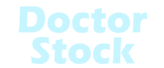
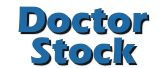
Slider error... xd

diff --git a/index.html b/index.html
@@ -18,6 +18,14 @@
               <a class="hiperlink" href="https://www.mendoza.edu.ar/mendoza-futura/" target="_blank"><img src="./img/Mendoza-Futura-V.png" alt="Mendoza Futura"></a>
             </nav>
         </header>
+        <article>
+          <div class="slider-frame">
+            <ul>
+              <li><a href="logo_name"><img src="./img/slide-DoctorStock.png" alt="Doctor Stock"></a></li>
+              <li><a href="#"><img src="./img/slide-SensARinclusive.png" alt="SensARinclusive"></a></li>
+            </ul>
+          </div>
+        </article>
         <article class="index_main">
           <section class="summary_info_code_whisperers">
             <h3>¿Quiénes somos?</h3>

diff --git a/styles/style.css b/styles/style.css
@@ -53,6 +53,33 @@ body{
 }
 
 /* Index */
+.slider-frame{
+    width: 1009px;
+    height: auto;
+    margin: 50px auto 0;
+    overflow: hidden;
+}
+.slider-frame ul{
+    display: flex;
+    padding: 0;
+    width: 200%;
+    animation: slide 8s infinite alternate ease-in-out;
+}
+.slider-frame li {
+	width: 100%;
+	list-style: none;
+}
+
+.slider-frame img {
+	width: 100%;
+}
+@keyframes slide {
+    0% {margin-left: 0;}
+    45% {margin-left: 0;}
+
+    50% {margin-left: -100%;}
+    95% {margin-left: -100%;}
+}
 .index_main{
     display: flex;
     flex-direction: row;
